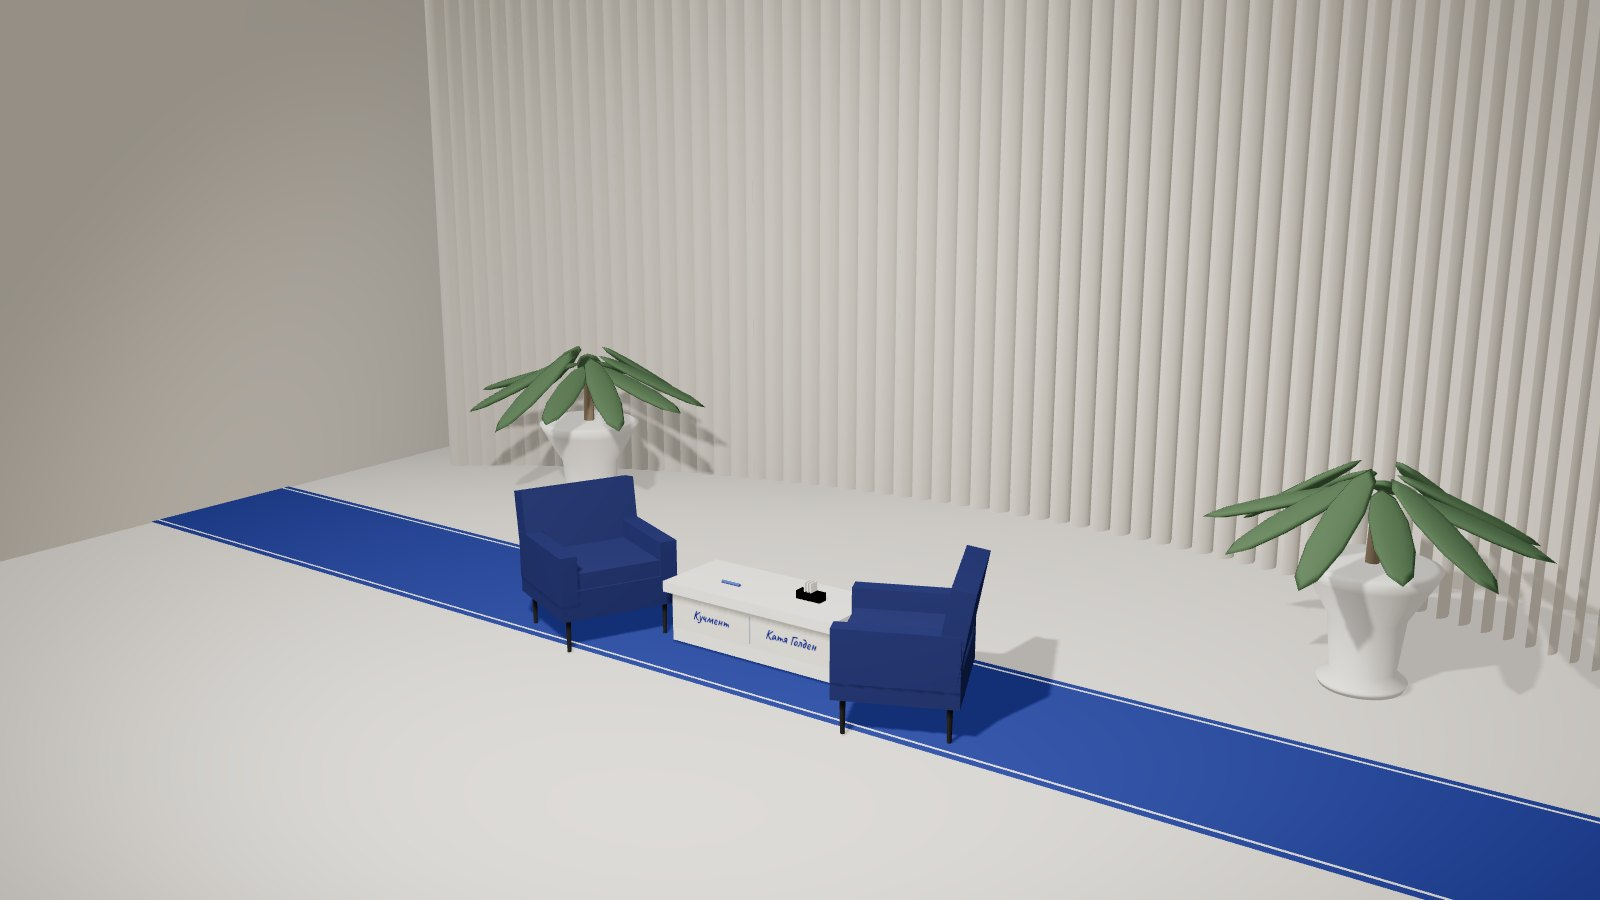
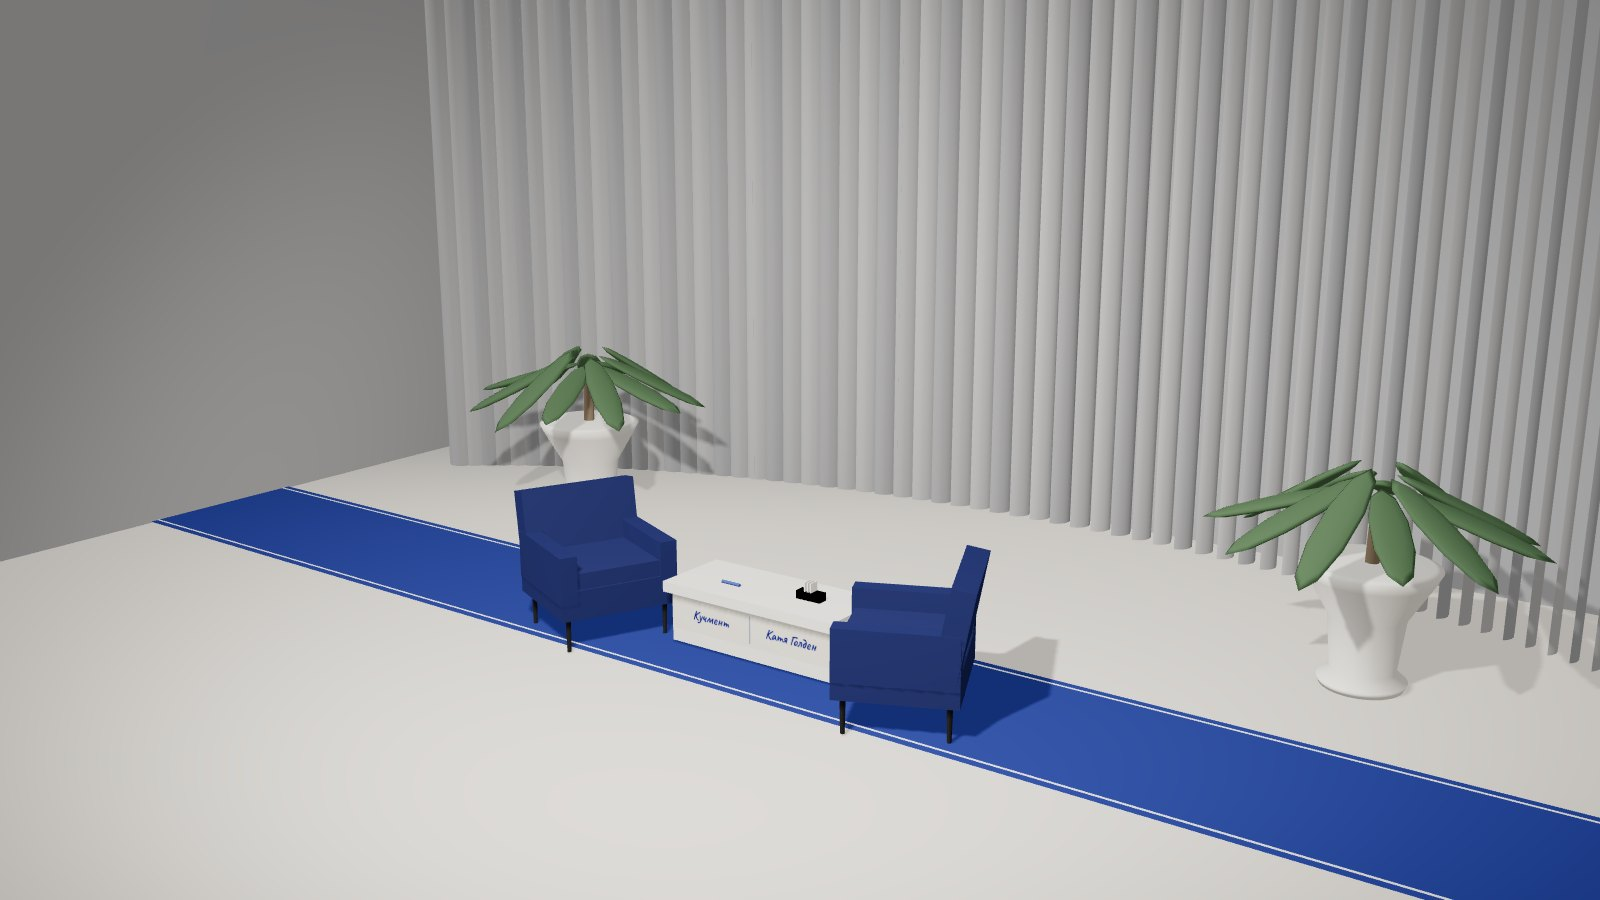
Серые шторы в Чернилах
Claude-Session: https://claude.ai/code/session_01JqA9mxb2UcCAa9NfNrfw51

diff --git a/index.html b/index.html
@@ -550,7 +550,7 @@ a:focus-visible{outline:2px solid var(--glow);outline-offset:3px;border-radius:6
   <header class="ch-head wrap">
     <div class="n rv">НАПРАВЛЕНИЕ 02</div>
     <h2 class="rv">Чернила</h2>
-    <p class="thesis rv"><b>Светлая студия и одна синяя линия чернил через весь кадр.</b> Фирменная сине белая палитра, логотип и рукописные заметки шоу собраны в спокойную симметричную композицию.</p>
+    <p class="thesis rv"><b>Светлая студия в серых шторах и одна синяя линия чернил через весь кадр.</b> Фирменная сине белая палитра, логотип и рукописные заметки шоу собраны в спокойную симметричную композицию.</p>
   </header>
   <div class="wrap"><div class="stage rv" data-scene="ink" aria-label="3D схема сета Чернила, перетаскивайте для поворота">
     <div class="chips variants" role="group" aria-label="Записи на полу под гостя">
@@ -568,7 +568,7 @@ a:focus-visible{outline:2px solid var(--glow);outline-offset:3px;border-radius:6
       <div><div class="eyebrow rv">Идея</div><h3 class="rv" style="margin-top:14px">Белая салфетка и одна линия синих чернил.</h3></div>
       <div class="prose rv">
         <p>Фирменные цвета шоу синий и белый. Самое знакомое всем сочетание синего и белого это линия шариковой ручки на салфетке. <b>Студия становится белой салфеткой, через которую проходит одна синяя линия: дорожка цвета чернил, на которой стоят кресла.</b></p>
-        <p>Комната светлая и теплая: молочные шторы по кругу, светлый пол, мягкий дневной свет. Композиция строго симметричная, как в кадре шахматного поединка: два кресла лицом друг к другу, между ними столик с именами собеседников. Пальмы из текущей студии остаются, но переезжают в белые вазоны по краям кадра.</p>
+        <p>Комната светлая: серые шторы с мягкими складками по кругу, светлый пол, мягкий дневной свет. Композиция строго симметричная, как в кадре шахматного поединка: два кресла лицом друг к другу, между ними столик с именами собеседников. Пальмы из текущей студии остаются, но переезжают в белые вазоны по краям кадра.</p>
         <p>Синий в кадре только один и глубокий, цвета чернил. Он работает акцентом на белом и не превращает студию в синюю комнату, поэтому не напоминает ВК.</p>
       </div>
     </div>
@@ -581,7 +581,7 @@ a:focus-visible{outline:2px solid var(--glow);outline-offset:3px;border-radius:6
         <div class="rv"><i>2</i><div><h4>Таблички с именами</h4><p>На передней грани столика имена Михаила и гостя синими чернилами. Меняются под каждого гостя и сразу представляют собеседников.</p></div></div>
         <div class="rv"><i>3</i><div><h4>Столик и салфетница</h4><p>Низкий белый столик, латунная салфетница с салфетками и синяя ручка.</p></div></div>
         <div class="rv"><i>4</i><div><h4>Пальмы в белых вазонах</h4><p>Знакомые зрителю пальмы стоят симметрично по краям и держат баланс кадра.</p></div></div>
-        <div class="rv"><i>5</i><div><h4>Молочные шторы</h4><p>Мягкие складки по кругу, светлый пол. Логотип шоу появляется в графике и на салфетнице.</p></div></div>
+        <div class="rv"><i>5</i><div><h4>Серые шторы</h4><p>Складки в нескольких оттенках серого по кругу, светлый пол. Логотип шоу появляется в графике и на салфетнице.</p></div></div>
         <div class="rv"><i class="c">A</i><div><h4>Камеры</h4><p>A общий симметричный план, B и C крупные планы, D сверху на дорожку и столик, E вертикаль для shorts.</p></div></div>
       </div>
     </div>

diff --git a/scenes.js b/scenes.js
@@ -143,10 +143,10 @@
     scene.add(new T.HemisphereLight(0xfffaf2,0xb9b0a2,.18));
     const floor=add(scene,new T.PlaneGeometry(40,40),M(0xd8d2c7,{r:.85}),0,0,0,false);floor.rotation.x=-Math.PI/2;
     // curtains around: warm white folds
-    const cur=M(0xd3c9b8,{r:.95});[-1,1].forEach(sd=>{const sp=add(scene,new T.PlaneGeometry(10,5.2),cur,sd*6.6,2.6,0,false);sp.rotation.y=-sd*Math.PI/2});
+    const cur=M(0x8d9096,{r:.95}),cur2=M(0x7d8087,{r:.95}),cur3=M(0x9a9da3,{r:.95});[-1,1].forEach(sd=>{const sp=add(scene,new T.PlaneGeometry(10,5.2),cur,sd*6.6,2.6,0,false);sp.rotation.y=-sd*Math.PI/2});
     const N=70,R=5.2;for(let i=0;i<N;i++){const th=Math.PI*.18+i/(N-1)*Math.PI*.64;const x=Math.cos(th)*R*1.35,z=-Math.sin(th)*R*.75;
-      const m=add(scene,new T.CylinderGeometry(.13,.13,5.2,10,1,false,0,Math.PI),cur,x,2.6,z,false);m.rotation.y=-th+Math.PI/2}
-    add(scene,new T.PlaneGeometry(16,5.2),cur,0,2.6,-4.05,false);
+      const m=add(scene,new T.CylinderGeometry(.13,.13,5.2,10,1,false,0,Math.PI),[cur,cur2,cur3][i%3],x,2.6,z,false);m.rotation.y=-th+Math.PI/2}
+    add(scene,new T.PlaneGeometry(16,5.2),cur2,0,2.6,-4.05,false);
     // blue runner: ink line across the floor
     const runMat=M(0x0c1a66,{r:.95});
     const run=add(scene,new T.PlaneGeometry(14,1.5),runMat,0,.012,.35,false);run.rotation.x=-Math.PI/2;
